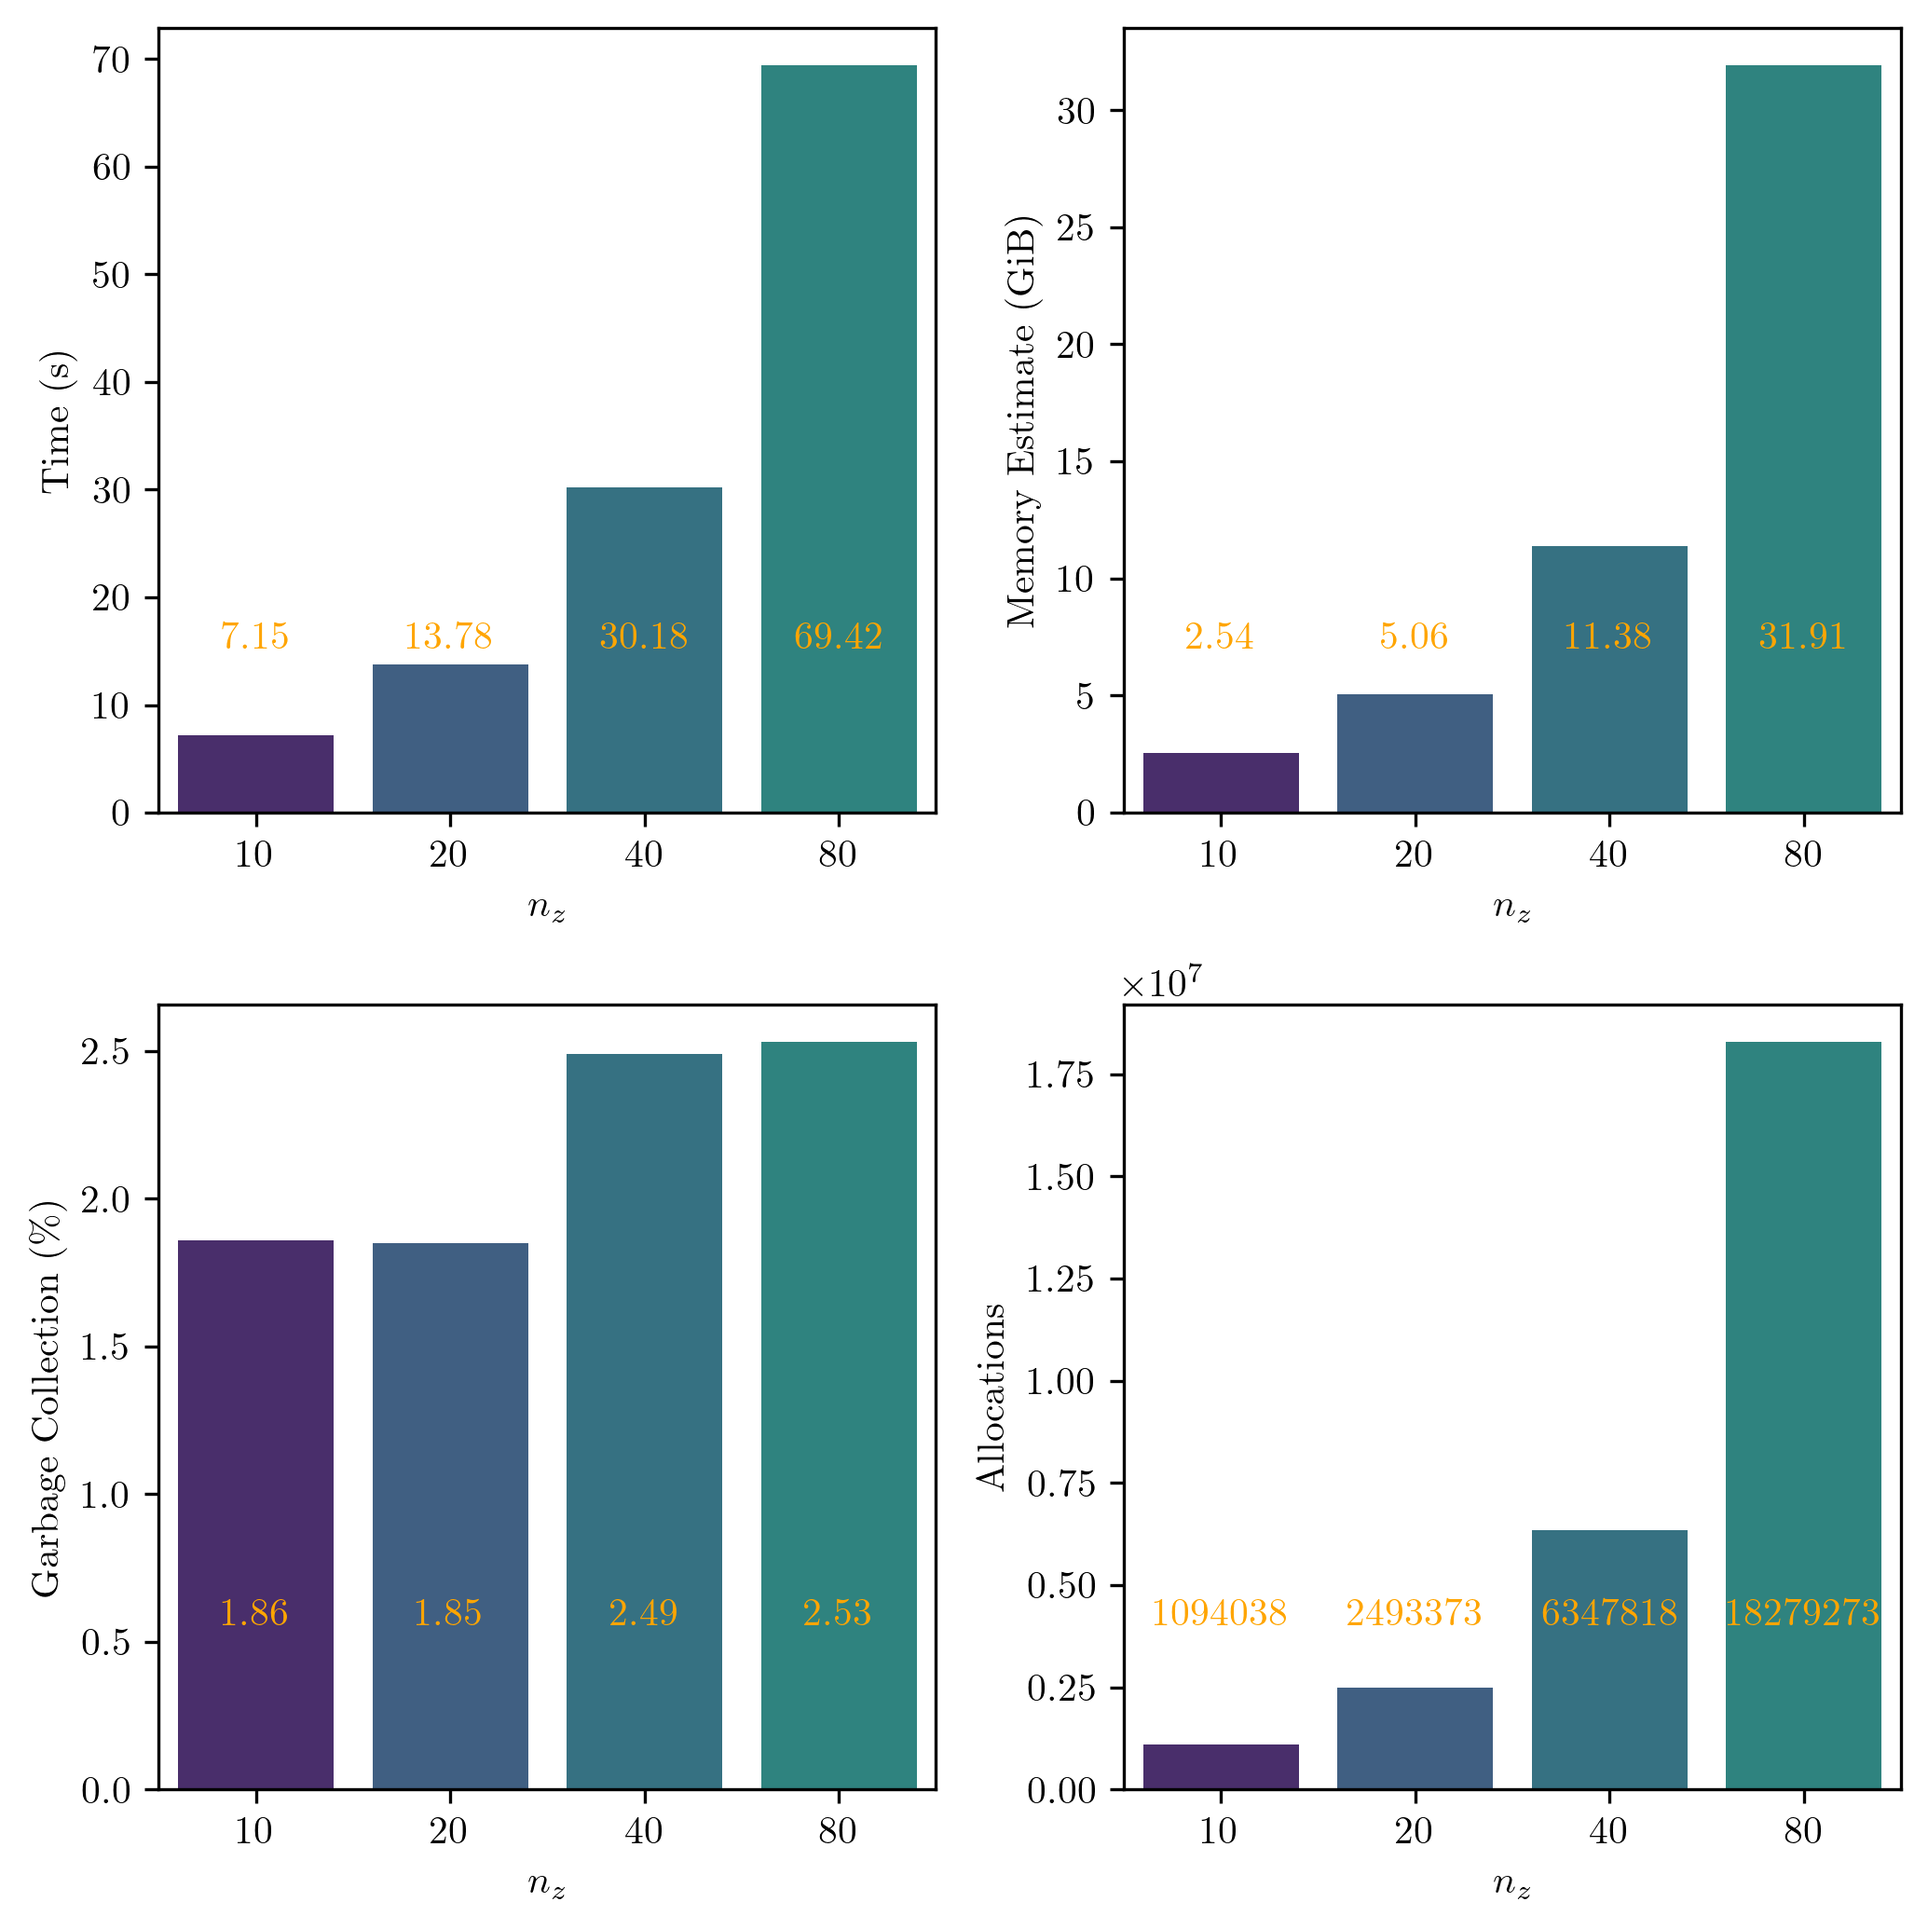
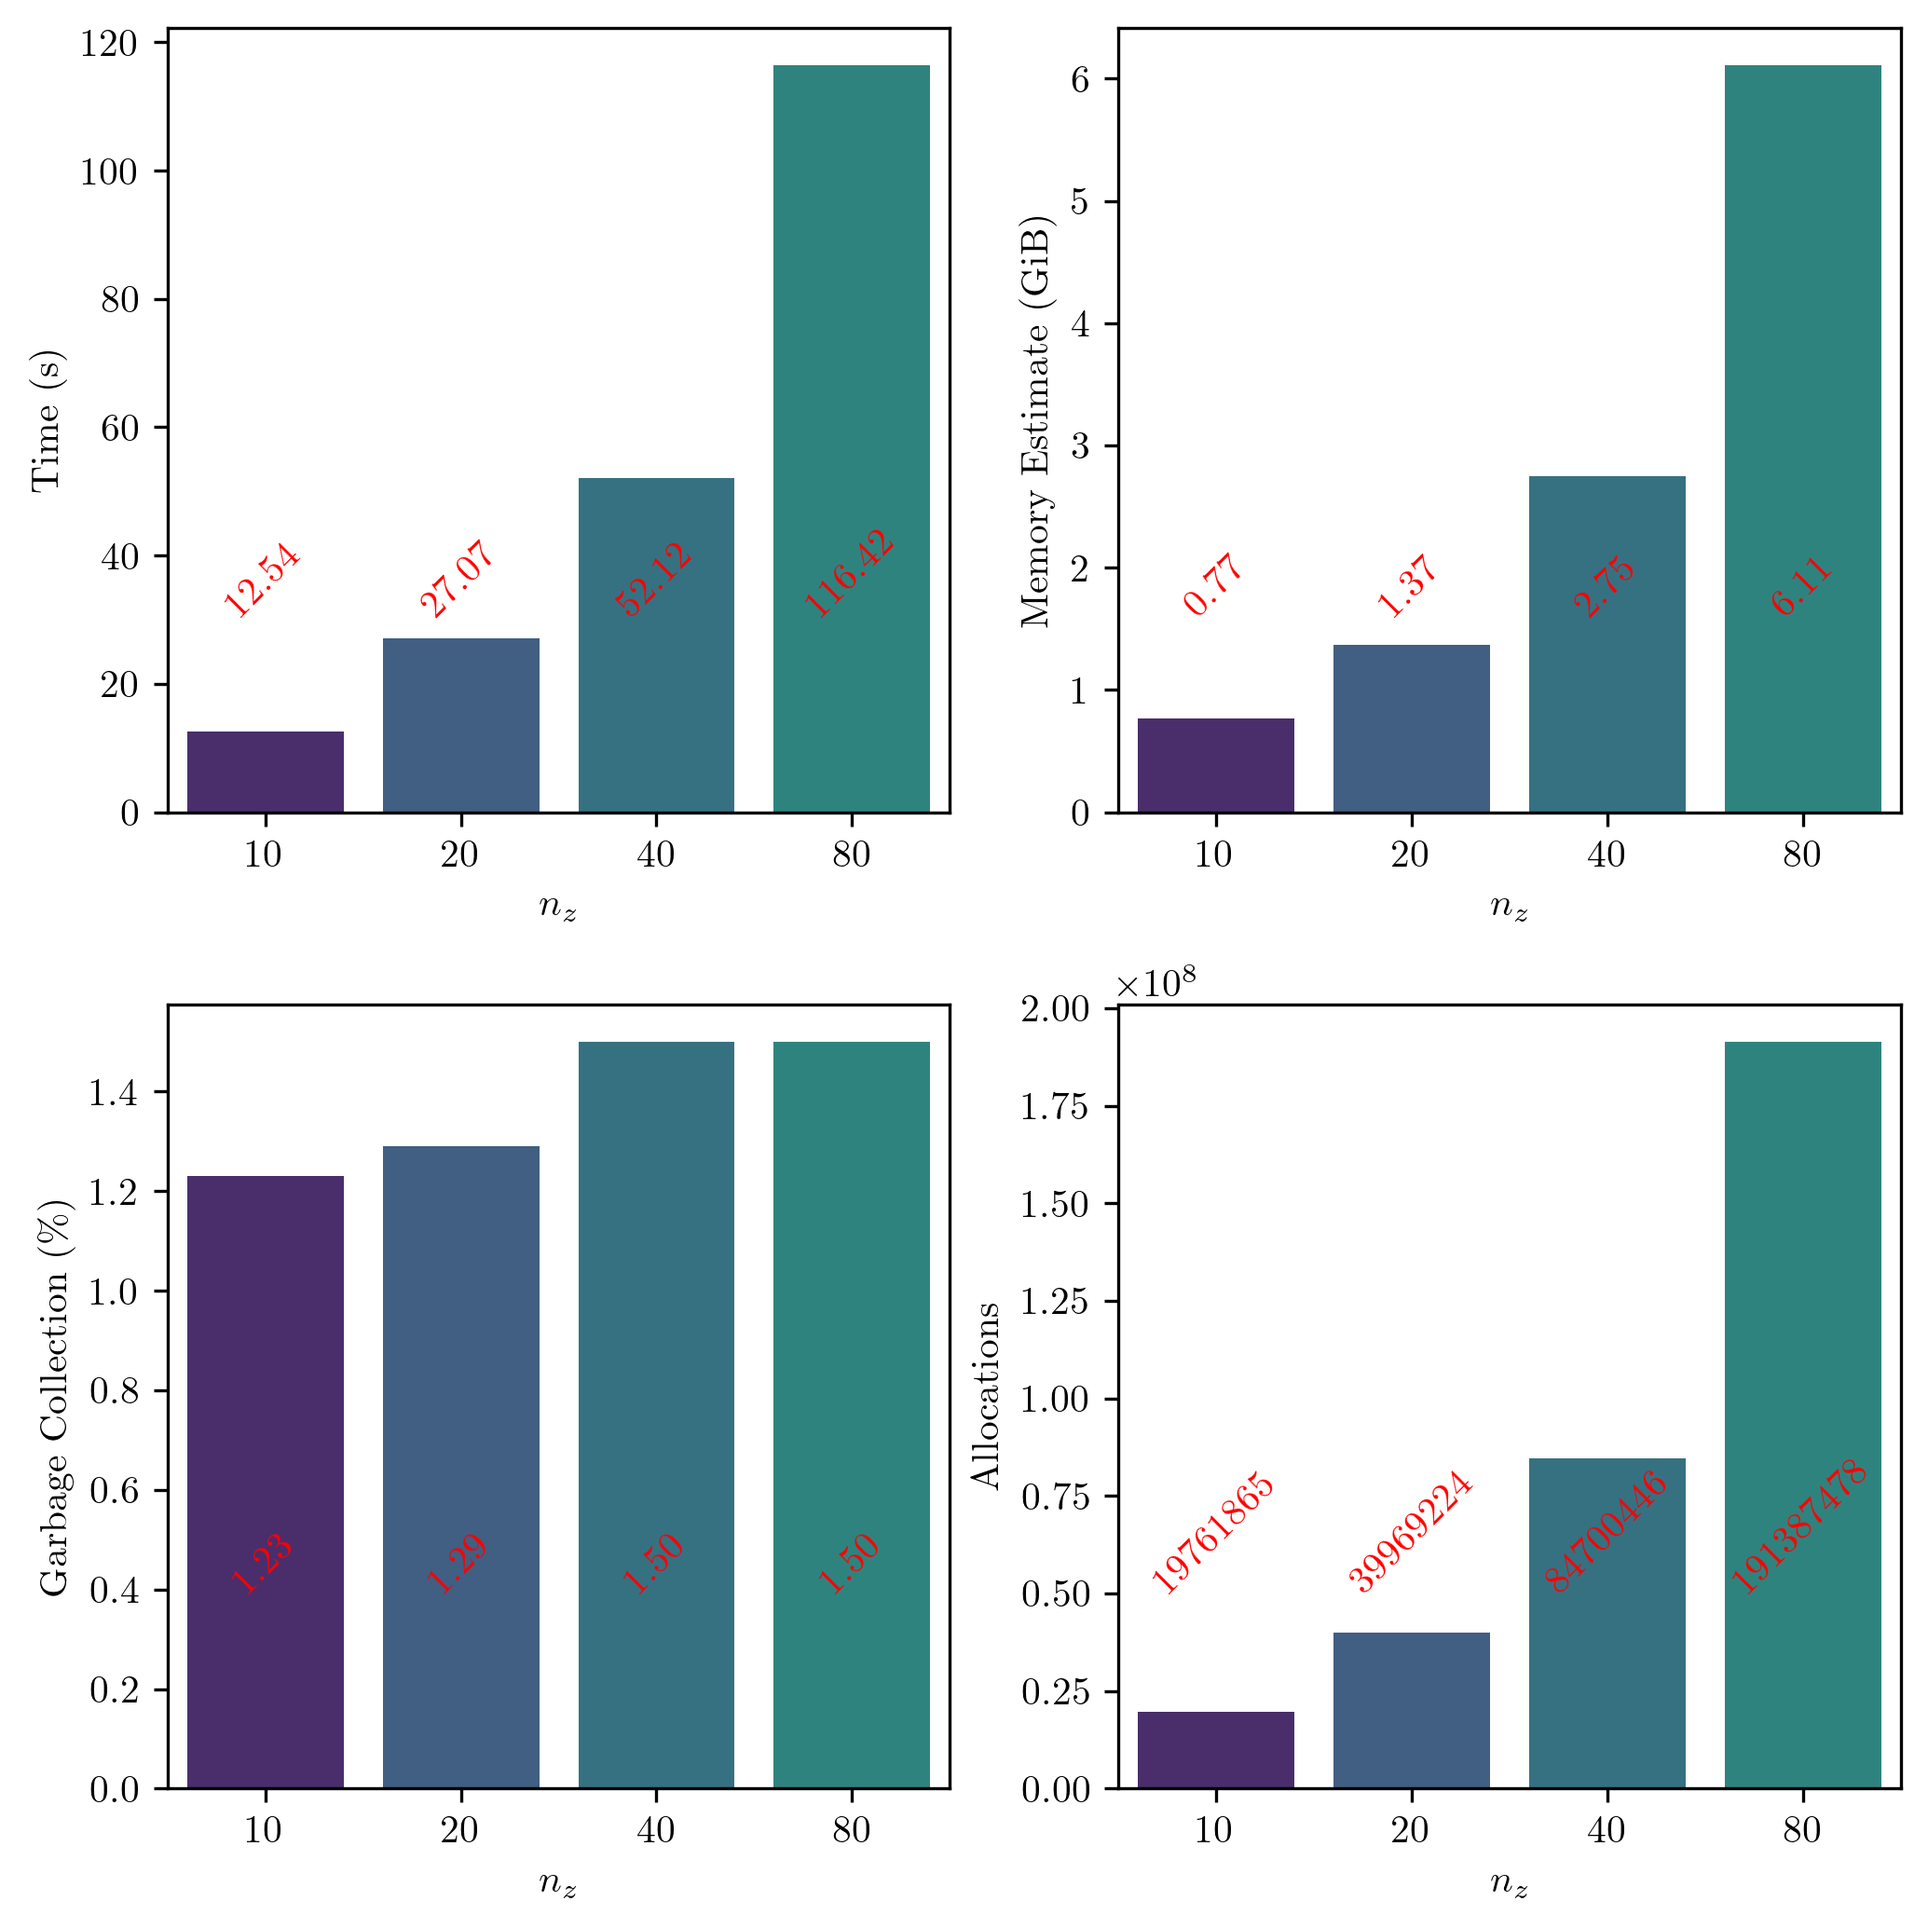
plotting

diff --git a/plotting/benchmark/plot_cost.py b/plotting/benchmark/plot_cost.py
@@ -12,26 +12,32 @@ plt.rcParams.update({
 
 latent_dim = pd.DataFrame({
     "$n_z$" : [10, 20, 40, 80],
-    "Time (s)" : [7.151, 13.777, 30.180, 69.415],
-    "Memory Estimate (GiB)" : [2.54, 5.06, 11.38, 31.91],
-    "Garbage Collection (%)" : [1.86, 1.85, 2.49, 2.53],
-    "Allocations" : [1094038, 2493373, 6347818, 18279273],
+    "Time (s)" : [12.538, 27.069, 52.124, 116.419],
+    "Memory Estimate (GiB)" : [0.765, 1.37, 2.75, 6.11],
+    "Garbage Collection (%)" : [1.23, 1.29, 1.50, 1.50],
+    "Allocations" : [19761865, 39969224, 84700446, 191387478],
 })
 
 keys = ["$n_z$"]
 colours = ["viridis"]
 
-def add_text_annotations(ax, round=False):
+def add_text_annotations(ax, round=False, red=0):
     for bar in ax.patches:
         if round:
             text = f'{bar.get_height():.0f}'
         else:
             text = f'{bar.get_height():.2f}'
         
+        if red == 0:
+            color = 'red' 
+        else:
+            color = 'magenta'
+
         ax.text(
             bar.get_x() + bar.get_width() / 2, 
-            0.2 *ax.get_ylim()[1], 
-            text, ha='center', va='bottom', color='orange'
+            0.24 *ax.get_ylim()[1], 
+            text, ha='center', va='bottom', color=color, 
+            rotation=45
         )
 
 for (idx, df) in enumerate([latent_dim]):
@@ -46,7 +52,7 @@ for (idx, df) in enumerate([latent_dim]):
         ax = axs[0, 0],
         palette = colors
     )
-    add_text_annotations(axs[0, 0], round=False)
+    add_text_annotations(axs[0, 0], round=False, red=idx)
 
     axs[0, 0].set_xlabel(keys[idx])
     axs[0, 0].set_ylabel("Time (s)")
@@ -58,7 +64,7 @@ for (idx, df) in enumerate([latent_dim]):
         ax = axs[0, 1],
         palette = colors
     )
-    add_text_annotations(axs[0, 1], round=False)
+    add_text_annotations(axs[0, 1], round=False, red=idx)
 
     axs[0, 1].set_xlabel(keys[idx])
     axs[0, 1].set_ylabel("Memory Estimate (GiB)")
@@ -70,7 +76,7 @@ for (idx, df) in enumerate([latent_dim]):
         ax = axs[1, 0],
         palette = colors
     )
-    add_text_annotations(axs[1, 0], round=False)
+    add_text_annotations(axs[1, 0], round=False, red=idx)
 
     axs[1, 0].set_xlabel(keys[idx])
     axs[1, 0].set_ylabel("Garbage Collection (\%)")
@@ -82,7 +88,7 @@ for (idx, df) in enumerate([latent_dim]):
         ax = axs[1, 1],
         palette = colors
     )
-    add_text_annotations(axs[1, 1], round=True)
+    add_text_annotations(axs[1, 1], round=True, red=idx)
 
     axs[1, 1].set_xlabel(keys[idx])
     axs[1, 1].set_ylabel("Allocations")
